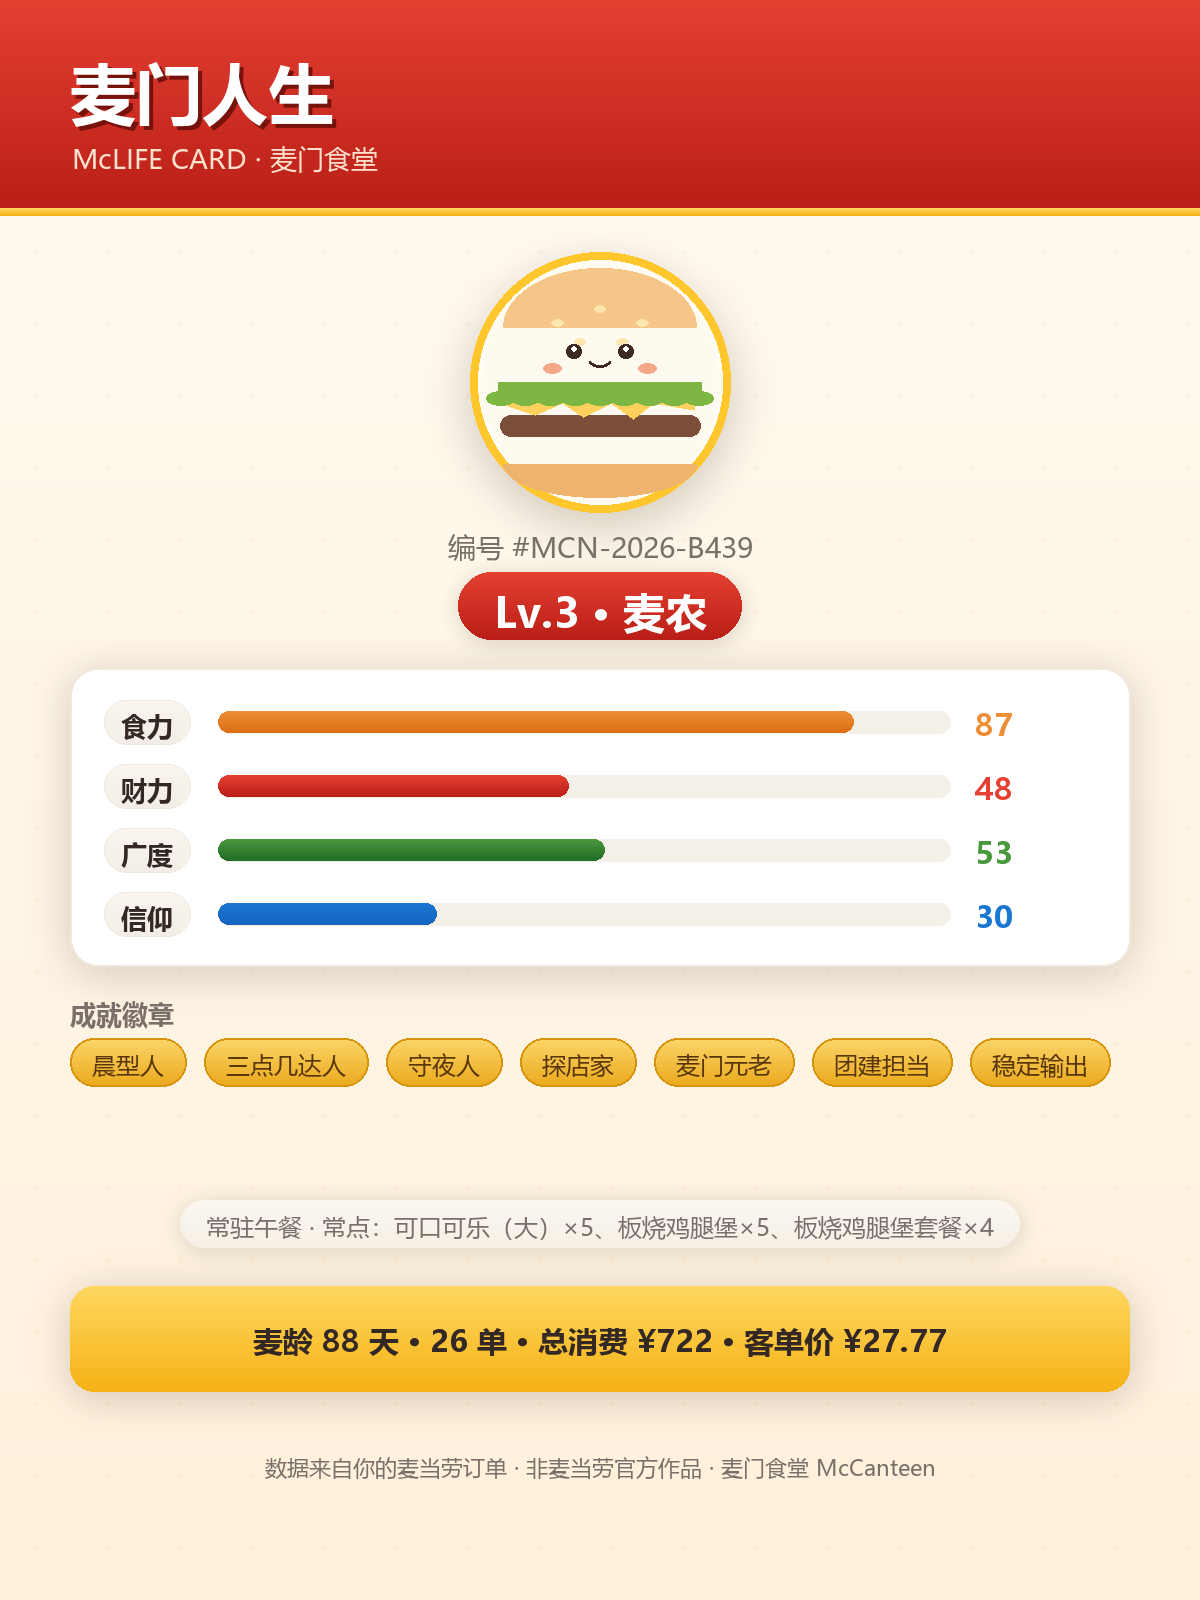
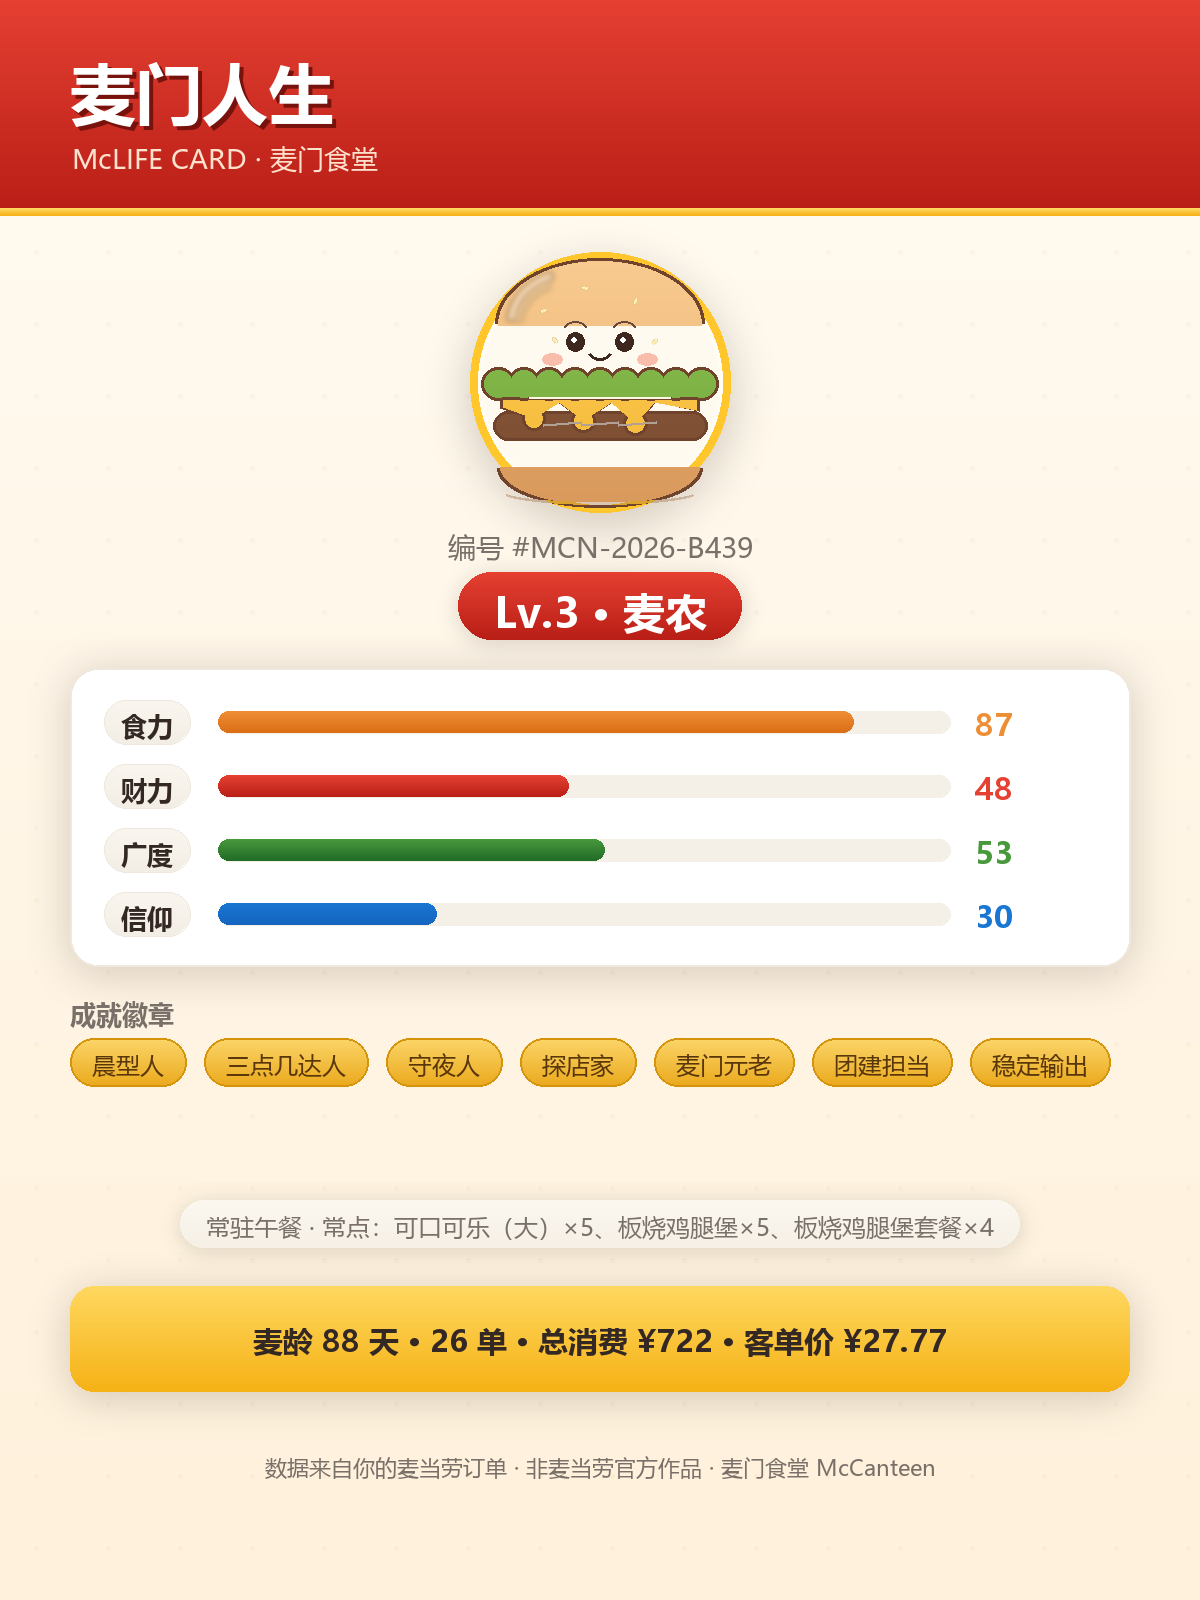
feat(card): 汉堡吉祥物精细重绘 —— 分层渐变合成
按用户要求重绘汉堡（原来是基础图形平涂）：
- 五层结构各自独立渐变 + 卡通描边：下层面包/肉饼/芝士/生菜/上层面包
- 芝士带三处垂滴；生菜波浪垂边；肉饼烤痕；杏仁形芝麻（旋转布粒）
- 上层面包弧线光泽（沿面包曲线，替代糊状高光块）
- 表情升级：上挑眉毛 + 眼睛高光 + 腮红 + 微笑；芝麻布位避开面部区域

测试 130/130 通过；示例卡重新生成。

Changed region(s): [[0.4008, 0.1562, 0.6167, 0.3438]]

diff --git a/src/mccanteen/cardgen.py b/src/mccanteen/cardgen.py
@@ -195,61 +195,153 @@ def _chip(img: Image.Image, x: int, y: int, text: str, font: ImageFont.FreeTypeF
     return w
 
 
-# ————————————————— 汉堡吉祥物（会笑的那位） —————————————————
+# ————————————————— 汉堡吉祥物（分层渐变合成，会笑的那位） —————————————————
 
 
-def draw_burger(draw: ImageDraw.ImageDraw, cx: int, cy: int, r: int) -> None:
-    bun = (238, 180, 110)
-    bun_light = (246, 198, 136)
-    lettuce = (126, 182, 68)
-    cheese = (255, 208, 92)
-    patty = (124, 80, 56)
+def _sesame(canvas: Image.Image, x: float, y: float, w: int, h: int, angle: float) -> None:
+    """粘贴一粒旋转的杏仁形芝麻。"""
+    s = Image.new("RGBA", (w * 3, h * 3), (0, 0, 0, 0))
+    sd = ImageDraw.Draw(s)
+    sd.ellipse([w, h, w * 2, h * 2], fill=(252, 231, 178), outline=(226, 196, 140), width=1)
+    s = s.rotate(angle, expand=True, resample=Image.BICUBIC)
+    canvas.alpha_composite(s, (int(x - s.size[0] / 2), int(y - s.size[1] / 2)))
 
-    # 下层面包（先画，压层）
-    draw.pieslice([cx - r * 0.82, cy + r * 0.42, cx + r * 0.82, cy + r * 0.98], 0, 180, fill=bun)
-    # 肉饼
-    draw.rounded_rectangle([cx - r * 0.85, cy + r * 0.28, cx + r * 0.85, cy + r * 0.46], radius=r * 0.09, fill=patty)
-    # 芝士（带流心下垂）
-    draw.polygon(
-        [
-            (cx - r * 0.80, cy + r * 0.12),
-            (cx + r * 0.80, cy + r * 0.12),
-            (cx + r * 0.80, cy + r * 0.24),
-            (cx + r * 0.45, cy + r * 0.18),
-            (cx + r * 0.28, cy + r * 0.32),
-            (cx + r * 0.10, cy + r * 0.18),
-            (cx - r * 0.14, cy + r * 0.30),
-            (cx - r * 0.32, cy + r * 0.18),
-            (cx - r * 0.55, cy + r * 0.28),
-            (cx - r * 0.80, cy + r * 0.20),
-        ],
-        fill=cheese,
-    )
-    # 生菜（波浪边）
-    draw.rectangle([cx - r * 0.86, cy + r * 0.0, cx + r * 0.86, cy + r * 0.12], fill=lettuce)
-    for i in range(-4, 5):
-        x = cx + i * r * 0.21
-        draw.ellipse([x - r * 0.12, cy + r * 0.08, x + r * 0.12, cy + r * 0.20], fill=lettuce)
-    # 上层面包
-    draw.pieslice([cx - r * 0.82, cy - r * 0.96, cx + r * 0.82, cy + r * 0.04], 180, 360, fill=bun_light)
-    # 芝麻
-    for dx, dy in [(-0.36, -0.50), (0.0, -0.62), (0.36, -0.50), (-0.17, -0.34), (0.19, -0.34)]:
-        draw.ellipse(
-            [cx + r * dx - r * 0.05, cy + r * dy - r * 0.03, cx + r * dx + r * 0.05, cy + r * dy + r * 0.03],
-            fill=(252, 230, 176),
+
+def _soft_highlight(canvas: Image.Image, box: Tuple[int, int, int, int], alpha: int = 80, blur: int = 10) -> None:
+    """柔和白色高光（模糊椭圆）。"""
+    x0, y0, x1, y1 = box
+    w, h = max(1, x1 - x0), max(1, y1 - y0)
+    hl = Image.new("RGBA", (w, h), (0, 0, 0, 0))
+    hd = ImageDraw.Draw(hl)
+    hd.ellipse([0, 0, w - 1, h - 1], fill=(255, 255, 255, alpha))
+    hl = hl.filter(ImageFilter.GaussianBlur(blur))
+    canvas.alpha_composite(hl, (x0, y0))
+
+
+def draw_burger(img: Image.Image, cx: int, cy: int, r: int) -> None:
+    """在 img 上分层合成汉堡吉祥物。
+
+    自底向上：下层面包 → 肉饼 → 芝士 → 生菜 → 上层面包，
+    每层独立渐变 + 卡通描边；随后点缀芝麻、烤痕、高光，最后画表情。
+    """
+    R = float(r)
+    size = int(R * 2.8)
+    X = Y = size / 2.0
+    canvas = Image.new("RGBA", (size, size), (0, 0, 0, 0))
+    OUT = (112, 68, 44, 255)  # 卡通描边色
+
+    def _layer(shape, top: Tuple[int, int, int], bottom: Tuple[int, int, int], outline: bool = True) -> None:
+        if outline:
+            dark = Image.new("RGBA", (size, size), (0, 0, 0, 0))
+            shape(ImageDraw.Draw(dark), 3.0, OUT)
+            canvas.alpha_composite(dark)
+        grad = _gradient((size, size), top, bottom)
+        mask = Image.new("L", (size, size), 0)
+        shape(ImageDraw.Draw(mask), 0.0, 255)
+        canvas.paste(grad, (0, 0), mask)
+
+    # —— 下层面包 ——
+    def s_bottom_bun(d, g, fill):
+        d.pieslice(
+            [X - 0.84 * R - g, Y + 0.40 * R, X + 0.84 * R + g, Y + 1.04 * R + g],
+            0, 180, fill=fill,
         )
 
-    # —— 表情（吉祥物的灵魂）——
-    eye_y = cy - r * 0.26
-    for ex in (cx - r * 0.22, cx + r * 0.22):
-        draw.ellipse([ex - r * 0.06, eye_y - r * 0.06, ex + r * 0.06, eye_y + r * 0.06], fill=(62, 42, 32))
-        draw.ellipse([ex - r * 0.02, eye_y - r * 0.04, ex + r * 0.02, eye_y + r * 0.0], fill=WHITE)
-    for bx in (cx - r * 0.40, cx + r * 0.40):
-        draw.ellipse([bx - r * 0.075, eye_y + r * 0.10, bx + r * 0.075, eye_y + r * 0.19], fill=(244, 168, 138))
-    draw.arc(
-        [cx - r * 0.11, eye_y - r * 0.02, cx + r * 0.11, eye_y + r * 0.14],
-        25, 155, fill=(62, 42, 32), width=max(2, int(r * 0.028)),
+    _layer(s_bottom_bun, (243, 190, 122), (213, 148, 88))
+
+    # —— 肉饼（带烤痕） ——
+    def s_patty(d, g, fill):
+        d.rounded_rectangle(
+            [X - 0.88 * R - g, Y + 0.27 * R - g, X + 0.88 * R + g, Y + 0.47 * R + g],
+            radius=0.10 * R + g, fill=fill,
+        )
+
+    _layer(s_patty, (154, 100, 66), (114, 70, 46))
+
+    # —— 芝士（带三处垂滴） ——
+    cheese_pts = [(-0.82, 0.10), (0.82, 0.10), (0.82, 0.24), (0.46, 0.17),
+                  (0.30, 0.35), (0.10, 0.17), (-0.14, 0.33), (-0.34, 0.17),
+                  (-0.56, 0.31), (-0.82, 0.22)]
+
+    def s_cheese(d, g, fill):
+        k = 1.0 + g / R
+        d.polygon([(X + px * R * k, Y + py * R * k) for px, py in cheese_pts], fill=fill)
+        for px, py in [(0.30, 0.35), (-0.14, 0.33), (-0.56, 0.31)]:
+            rr = 0.075 * R + g
+            d.ellipse([X + px * R - rr, Y + py * R - rr, X + px * R + rr, Y + py * R + rr], fill=fill)
+
+    _layer(s_cheese, (255, 216, 102), (243, 176, 42))
+
+    # —— 生菜（波浪垂边） ——
+    def s_lettuce(d, g, fill):
+        d.rectangle([X - 0.88 * R - g, Y - 0.02 * R - g, X + 0.88 * R + g, Y + 0.12 * R + g], fill=fill)
+        for i in range(-4, 5):
+            fx = X + i * 0.215 * R
+            rr = 0.115 * R + g
+            d.ellipse([fx - rr, Y + 0.02 * R - rr, fx + rr, Y + 0.02 * R + rr], fill=fill)
+
+    _layer(s_lettuce, (148, 202, 86), (108, 158, 56))
+
+    # —— 上层面包 ——
+    def s_top_bun(d, g, fill):
+        d.pieslice(
+            [X - 0.86 * R - g, Y - 1.02 * R - g, X + 0.86 * R + g, Y + 0.06 * R],
+            180, 360, fill=fill,
+        )
+
+    _layer(s_top_bun, (251, 208, 150), (231, 170, 104))
+
+    d = ImageDraw.Draw(canvas)
+
+    # 上层面包弧线光泽（沿面包左上曲线，替代糊状高光）
+    shine = Image.new("RGBA", (size, size), (0, 0, 0, 0))
+    sd = ImageDraw.Draw(shine)
+    sd.arc(
+        [X - 0.78 * R, Y - 0.95 * R, X + 0.30 * R, Y - 0.05 * R],
+        182, 252, fill=(255, 255, 255, 120), width=max(3, int(R * 0.07)),
     )
+    sd.arc(
+        [X - 0.70 * R, Y - 0.86 * R, X + 0.22 * R, Y - 0.08 * R],
+        186, 246, fill=(255, 255, 255, 90), width=max(2, int(R * 0.035)),
+    )
+    shine = shine.filter(ImageFilter.GaussianBlur(3))
+    canvas.alpha_composite(shine)
+
+    # 芝麻（避开面部区域：X±0.25R、Y-0.5R~Y-0.1R）
+    for px, py, ang in [(-0.48, -0.60, 25), (-0.12, -0.80, -15), (0.30, -0.68, 70),
+                        (-0.38, -0.36, -50), (0.46, -0.34, 40)]:
+        _sesame(canvas, X + px * R, Y + py * R, max(3, int(R * 0.055)), max(2, int(R * 0.032)), ang)
+
+    # 肉饼烤痕
+    for px in (-0.32, 0.0, 0.32):
+        x0 = X + px * R - 0.16 * R
+        x1 = X + px * R + 0.16 * R
+        d.line([(x0, Y + 0.365 * R), (x1, Y + 0.345 * R)], fill=(74, 44, 30, 110), width=max(2, int(R * 0.028)))
+
+    # 芝士顶部反光
+    d.line([(X - 0.6 * R, Y + 0.13 * R), (X + 0.6 * R, Y + 0.13 * R)], fill=(255, 246, 214, 120), width=max(2, int(R * 0.022)))
+
+    # 下层面包底部暗影
+    d.arc([X - 0.84 * R, Y + 0.82 * R, X + 0.84 * R, Y + 1.04 * R], 20, 160, fill=(150, 96, 54, 90), width=max(2, int(R * 0.03)))
+
+    # —— 表情（吉祥物的灵魂） ——
+    eye_y = Y - 0.34 * R
+    eye_dx = 0.21 * R
+    eye_r = 0.078 * R
+    # 眉毛（俏皮地上挑）
+    for ex in (X - eye_dx, X + eye_dx):
+        d.arc([ex - 0.10 * R, eye_y - 0.17 * R, ex + 0.10 * R, eye_y - 0.01 * R], 200, 340, fill=(88, 54, 40, 230), width=max(2, int(R * 0.024)))
+    # 眼睛 + 高光
+    for ex in (X - eye_dx, X + eye_dx):
+        d.ellipse([ex - eye_r, eye_y - eye_r, ex + eye_r, eye_y + eye_r], fill=(62, 40, 30))
+        d.ellipse([ex - eye_r * 0.45, eye_y - eye_r * 0.5, ex + eye_r * 0.1, eye_y + eye_r * 0.05], fill=(255, 255, 255))
+    # 腮红
+    for bx in (X - 0.40 * R, X + 0.40 * R):
+        d.ellipse([bx - 0.085 * R, eye_y + 0.10 * R, bx + 0.085 * R, eye_y + 0.20 * R], fill=(244, 148, 122, 150))
+    # 微笑
+    d.arc([X - 0.11 * R, eye_y - 0.02 * R, X + 0.11 * R, eye_y + 0.16 * R], 25, 155, fill=(62, 40, 30), width=max(2, int(R * 0.03)))
+
+    img.alpha_composite(canvas, (int(cx - size / 2), int(cy - size / 2)))
 
 
 def _base_canvas() -> Image.Image:
@@ -294,7 +386,7 @@ def render_life_card(profile: LifeProfile, out_path: str) -> str:
     d.ellipse([cx - r - 12, cy - r - 12, cx + r + 12, cy + r + 12], fill=YELLOW)
     d.ellipse([cx - r - 4, cy - r - 4, cx + r + 4, cy + r + 4], fill=(255, 252, 244))
     d.ellipse([cx - r, cy - r, cx + r, cy + r], fill=(255, 250, 240))
-    draw_burger(d, cx, cy, r)
+    draw_burger(img, cx, cy, r)
 
     # 编号 + 等级药丸
     serial_f = load_font(28)

diff --git a/references/card-design.md b/references/card-design.md
@@ -51,7 +51,8 @@
    - 头部：红渐变横幅 `#E54032 → #BA1F17`（208px）+ 黄色收口条（8px）+ 标题深色投影；
    - 深度：所有内容卡带柔和投影（GaussianBlur，透明度 45-60，偏移 6px）；
    - 徽章：渐变药丸（等级/常驻单品）、渐变圆章（金银铜名次）、金色渐变成就 chip；
-   - 吉祥物：汉堡带表情（眼睛 + 高光 + 腮红 + 微笑），是卡片的灵魂。
+   - 吉祥物：汉堡分层渐变合成（下层面包/肉饼/芝士/生菜/上层面包，每层独立渐变 + 卡通描边），
+     带弧线光泽、杏仁芝麻、烤痕、芝士垂滴，以及表情（眉毛/眼睛高光/腮红/微笑）——卡片的灵魂
 2. **配色**：麦当劳红 `#DA291C` / 黄 `#FFC72C` / 米白系渐变（视觉致敬，非官方素材）。
 3. **字体**：按候选列表探测（微软雅黑 → 黑体 → PingFang → Noto → 文泉驿），全部缺失时明确报错，**不用默认位图字体硬渲染**。
 4. **防溢出**：所有文本经 `wrap_text` 换行 + `fit_font` 缩字号；中文按字符贪心断行。
